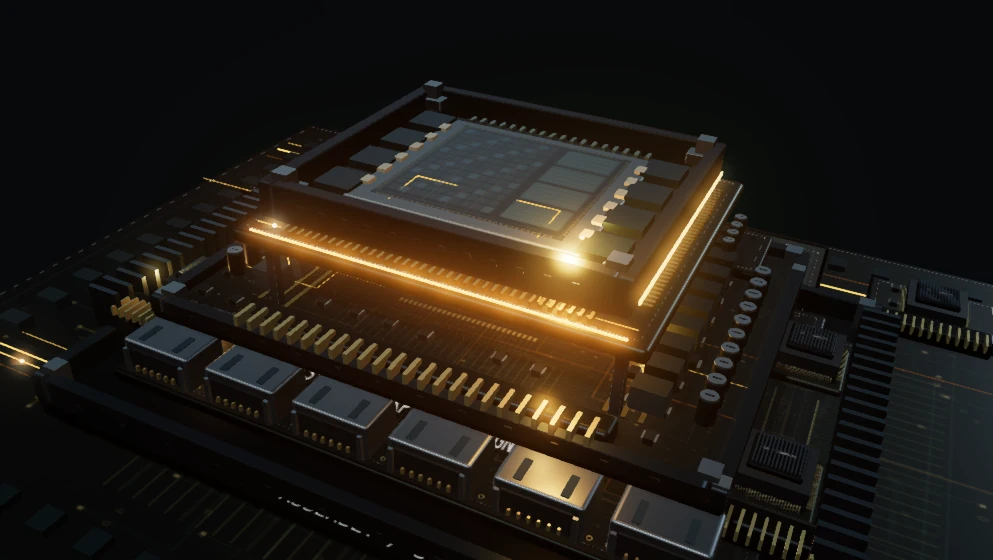
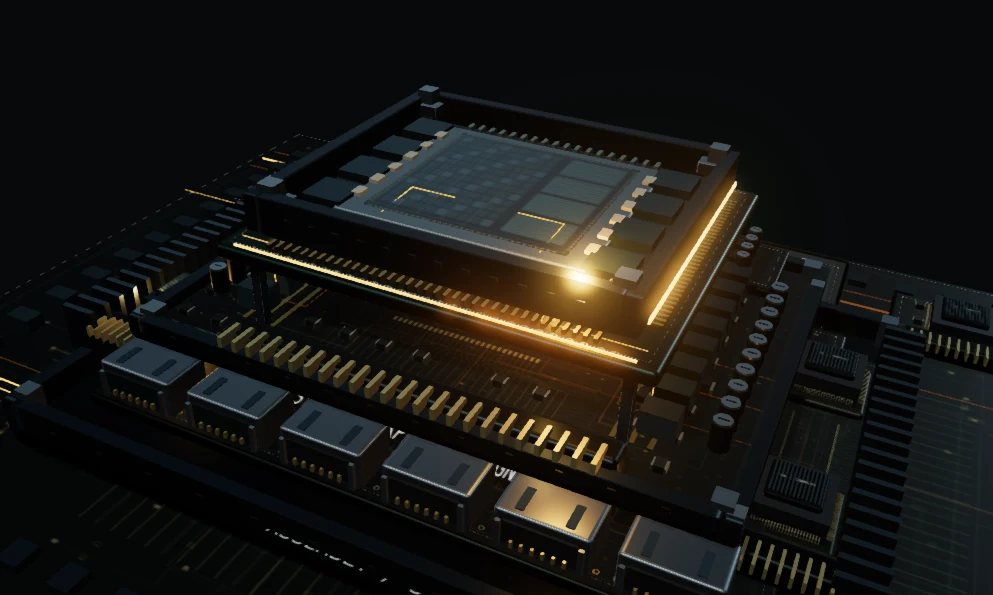
feat: polish contact globe and flagship project presentation

diff --git a/src/components/three/ContactGlobeScene.tsx b/src/components/three/ContactGlobeScene.tsx
@@ -1,0 +1,40 @@
+import {useEffect,useLayoutEffect,useMemo,useRef,type RefObject} from 'react';
+import {useFrame,useThree} from '@react-three/fiber';
+import {Color,BufferGeometry,Float32BufferAttribute,Group,InstancedMesh,MathUtils,Matrix4,MeshBasicMaterial,MeshStandardMaterial,PointLight,SphereGeometry,TubeGeometry,Vector2,Vector3,CatmullRomCurve3} from 'three';
+import {useResource} from './resources';
+import type {SceneProps} from './types';
+const R=1.72;
+const surface=(lat:number,lon:number,r=R)=>{const a=lat*Math.PI/180,b=lon*Math.PI/180;return new Vector3(r*Math.cos(a)*Math.sin(b),r*Math.sin(a),r*Math.cos(a)*Math.cos(b));};
+// Coarse conceptual coastlines; no downloaded map textures or political boundaries.
+const lands=[[[ -166,65],[-130,72],[-55,52],[-82,24],[-104,18],[-125,42]], [[-80,12],[-45,-5],[-36,-22],[-68,-55],[-78,-20]], [[-18,35],[35,32],[50,10],[30,-35],[12,-33],[-16,7]], [[-10,36],[-12,60],[40,72],[170,60],[140,30],[115,5],[77,7],[55,28]], [[112,-11],[154,-12],[151,-38],[115,-35]], [[-52,60],[-20,70],[-35,83],[-62,78]]];
+function inside(x:number,y:number,p:number[][]){let hit=false;for(let i=0,j=p.length-1;i<p.length;j=i++){const [a,b]=p[i],[c,d]=p[j];if((b>y)!==(d>y)&&x<(c-a)*(y-b)/(d-b)+a)hit=!hit;}return hit;}
+function route(from:[number,number],to:[number,number],height:number,sweep=false){const a=surface(...from,1),b=surface(...to,1),points=[];for(let i=0;i<=40;i++){const t=i/40,v=a.clone().lerp(b,t).normalize();if(sweep)v.applyAxisAngle(new Vector3(0,0,1),Math.sin(t*Math.PI)*.48);points.push(v.multiplyScalar(R+.025+Math.sin(t*Math.PI)*height));}return new CatmullRomCurve3(points);}
+const paths=[route([45.42,-75.7],[35,70],.48),route([45.42,-75.7],[-30,-50],.27),route([15,-120],[50,30],.73),route([-25,135],[30,-20],.4),route([55,145],[-20,-70],.6),route([-45,-100],[65,100],1.03,true)];
+function Arc({index,reducedMotion,pointer}:{index:number;reducedMotion:boolean;pointer:RefObject<Vector2>}){
+ const time=useRef(0),band=index%2;
+ const geometry=useResource(`contact-route-${index}`,()=>new TubeGeometry(paths[index],48,index===5?.012:.007,5,false));
+ const material=useResource(`contact-route-material-${band}`,()=>new MeshStandardMaterial({color:'#8e652e',emissive:'#ff9a25',emissiveIntensity:.85,metalness:.65,roughness:.36}));
+ useFrame((_,delta)=>{if(!reducedMotion)time.current+=Math.min(delta,.08);material.emissiveIntensity=reducedMotion?.85:.62+.3*Math.sin(time.current*.16+band*2)**2+(band===0?.14*Math.max(0,1-pointer.current.length()):0);});
+ return <mesh geometry={geometry} material={material} dispose={null}/>;
+}
+export default function ContactGlobeScene({tier,reducedMotion}:SceneProps){
+ const globe=useRef<Group>(null),nodes=useRef<InstancedMesh>(null),land=useRef<InstancedMesh>(null),pulses=useRef<InstancedMesh>(null),lights=useRef<(PointLight|null)[]>([]),ottawa=useRef<MeshStandardMaterial>(null),pointer=useRef(new Vector2()),clock=useRef(0),matrix=useMemo(()=>new Matrix4(),[]);
+ const {camera,size,gl,invalidate}=useThree();const count=tier==='low'?3:6;const pathIndex=(i:number)=>tier==='low'&&i===2?5:i;
+ const dots=useMemo(()=>{const list:Vector3[]=[];for(let lat=-54;lat<78;lat+=tier==='low'?6:4)for(let lon=-178;lon<180;lon+=tier==='low'?6:4)if(lands.some(p=>inside(lon,lat,p)))list.push(surface(lat,lon,R+.008));return list;},[tier]);
+ const dotGeometry=useResource('contact-land-dot',()=>new SphereGeometry(.024,5,4)),nodeGeometry=useResource('contact-node',()=>new SphereGeometry(.033,8,6)),pulseGeometry=useResource('contact-pulse',()=>new SphereGeometry(.035,8,6));
+ const landMaterial=useResource('contact-land-metal',()=>new MeshStandardMaterial({color:'#536367',metalness:.82,roughness:.46})),nodeMaterial=useResource('contact-node-material',()=>new MeshBasicMaterial({color:'#bc8135'})),pulseMaterial=useResource('contact-pulse-material',()=>new MeshBasicMaterial({color:new Color('#ffca72').multiplyScalar(3.2),toneMapped:false}));
+ const grid=useResource('contact-grid',()=>{const vertices:number[]=[];for(let lat=-60;lat<=60;lat+=30)for(let lon=-180;lon<180;lon+=5)vertices.push(...surface(lat,lon,R+.012).toArray(),...surface(lat,lon+5,R+.012).toArray());for(let lon=-180;lon<180;lon+=30)for(let lat=-90;lat<90;lat+=5)vertices.push(...surface(lat,lon,R+.012).toArray(),...surface(lat+5,lon,R+.012).toArray());const g=new BufferGeometry();g.setAttribute('position',new Float32BufferAttribute(vertices,3));return g;});
+ useLayoutEffect(()=>{dots.forEach((p,i)=>land.current?.setMatrixAt(i,matrix.makeTranslation(p.x,p.y,p.z)));if(land.current)land.current.instanceMatrix.needsUpdate=true;Array.from({length:count},(_,i)=>nodes.current?.setMatrixAt(i,matrix.makeTranslation(...paths[pathIndex(i)].getPoint(1).toArray())));if(nodes.current)nodes.current.instanceMatrix.needsUpdate=true;},[dots,count,matrix]);
+ useEffect(()=>{camera.position.set(0,.12,size.width<size.height?9.4:8.3);camera.lookAt(0,0,0);invalidate();const canvas=gl.domElement;const move=(e:PointerEvent)=>{if(reducedMotion||tier==='low'||e.pointerType!=='mouse')return;const b=canvas.getBoundingClientRect();pointer.current.set(MathUtils.clamp((e.clientX-b.left)/b.width*2-1,-1,1),MathUtils.clamp((e.clientY-b.top)/b.height*2-1,-1,1));};const leave=()=>pointer.current.set(0,0);canvas.addEventListener('pointermove',move,{passive:true});canvas.addEventListener('pointerleave',leave);return()=>{canvas.removeEventListener('pointermove',move);canvas.removeEventListener('pointerleave',leave);};},[camera,size.width,size.height,gl,invalidate,reducedMotion,tier]);
+ useFrame((_,delta)=>{const dt=Math.min(delta,.08);if(!reducedMotion)clock.current+=dt;const t=clock.current;if(globe.current){globe.current.rotation.y=MathUtils.damp(globe.current.rotation.y,.86+t*.014+(reducedMotion?0:pointer.current.x*.065),4,dt);globe.current.rotation.x=MathUtils.damp(globe.current.rotation.x,-.16+(reducedMotion?0:pointer.current.y*.055),4,dt);}for(let i=0;i<count;i++){const phase=reducedMotion?.38:(t*(.075+i*.009)+i*.163)%1,activation=reducedMotion?.7:.6+.4*Math.sin(t*.23+i*1.7)**2;for(let j=0;j<4;j++){const p=paths[pathIndex(i)].getPoint((phase-j*.014+1)%1),scale=(1-j*.2)*activation;matrix.makeScale(scale,scale,scale).setPosition(p);pulses.current?.setMatrixAt(i*4+j,matrix);}if(lights.current[i]){lights.current[i]!.position.copy(paths[pathIndex(i)].getPoint(phase));lights.current[i]!.intensity=.8*activation;}}if(pulses.current)pulses.current.instanceMatrix.needsUpdate=true;if(ottawa.current)ottawa.current.emissiveIntensity=reducedMotion?1.1:1.1+Math.sin(t*1.8)*.22+Math.max(0,1-pointer.current.length())*.2;const sample=window.__PORTFOLIO_PROFILE__?.scenes.contact;if(sample)Object.assign(sample,{activePaths:count,landNodes:dots.length,clock:t,rotation:globe.current?.rotation.toArray()});});
+ return <group><group ref={globe} rotation={[-.16,.86,0]}>
+  <mesh><sphereGeometry args={[R,tier==='low'?40:64,tier==='low'?24:40]}/><meshStandardMaterial color='#111a1e' metalness={.72} roughness={.43}/></mesh>
+  <instancedMesh ref={land} args={[dotGeometry,landMaterial,dots.length]} dispose={null}/>
+  <lineSegments geometry={grid} dispose={null}><lineBasicMaterial color='#34484e' transparent opacity={.24}/></lineSegments>
+  {Array.from({length:count},(_,i)=><Arc key={i} reducedMotion={reducedMotion} pointer={pointer} index={tier==='low'&&i===2?5:i}/>)}
+  <instancedMesh ref={nodes} args={[nodeGeometry,nodeMaterial,count]} dispose={null}/>
+  <instancedMesh ref={pulses} args={[pulseGeometry,pulseMaterial,count*4]} dispose={null}/>
+  {tier!=='low'&&[0,1].map(i=><pointLight key={i} ref={l=>{lights.current[i]=l;}} color='#ffae49' intensity={.4} distance={2} decay={2}/>)}
+  <mesh position={surface(45.42,-75.7,R+.035)}><sphereGeometry args={[.057,12,8]}/><meshStandardMaterial ref={ottawa} color='#ffbd59' emissive='#ffad38' emissiveIntensity={1.1}/></mesh>
+ </group><directionalLight position={[-3,1,4]} color='#ffbd6a' intensity={1.05}/></group>;
+}

diff --git a/src/components/three/ModuleHardware.tsx b/src/components/three/ModuleHardware.tsx
@@ -3,7 +3,7 @@ import {RoundedBox} from '@react-three/drei';
 import {useFrame} from '@react-three/fiber';
 import {CylinderGeometry,InstancedMesh,Matrix4,MeshStandardMaterial} from 'three';
 import {Plate,Label,AMBER,READ} from './Hardware';
-import {Parts,Processor,Connector} from './Circuitry';
+import {Parts,Processor,Connector,CircuitBoard} from './Circuitry';
 import {useMetal,useResource,canvasTexture} from './resources';
 import {useDetailTier} from './quality';
 import SignalTrace from './SignalTrace';
@@ -79,10 +79,13 @@ export function AcquisitionTile({reducedMotion,active=true,scale=1}:{reducedMoti
   <Parts parts={[-1,1].map(s=>({position:[.5+s*.7,.38,-.51] as [number,number,number],size:[.1,.65,.12] as [number,number,number]}))} color='#788b94' metalness={.9} roughness={.28}/>
   <Parts parts={[-1,1].map(s=>({position:[.5+s*.7,.12,-.48] as [number,number,number],size:[.28,.055,.55] as [number,number,number]}))} color='#667980'/>
   <group position={[-.74,.13,.72]}><Plate width={1.22} depth={.54} height={.08} color='#2e413e'/><Parts parts={[-.4,0,.4].map(x=>({position:[x,.09,0] as [number,number,number],size:[.23,.1,.24] as [number,number,number]}))} color='#14242a' metalness={.12}/><Label text='ANALOG FRONT END' width={1.05} position={[0,.15,.18]}/></group>
-  <group position={[-1.3,.15,.2]}><Plate width={.75} depth={.7} height={.15} color='#405253'/>{[-.2,0,.2].map(x=><mesh key={x} position={[x,.15,.08]}><cylinderGeometry args={[.068,.068,.08,16]}/><meshStandardMaterial color='#c6c2ac' metalness={.9} roughness={.25}/></mesh>)}<Label text='INPUT' position={[0,.245,-.16]} width={.55}/></group>
+  <group position={[-1.3,.15,.2]}><Plate width={.75} depth={.7} height={.15} color='#405253'/>{[-.2,0,.2].map(x=><mesh key={x} position={[x,.15,.08]}><cylinderGeometry args={[.068,.068,.08,16]}/><meshStandardMaterial color='#c6c2ac' metalness={.9} roughness={.25}/></mesh>)}<Label text='MYOWARE / INPUT' position={[0,.245,-.16]} width={.67}/></group>
+  <group position={[-.55,.08,-.28]}><CircuitBoard width={.85} depth={.83} seed={121}/><Connector width={.55} count={6}/></group>
   <group position={[-.55,.18,-.28]}><Processor width={.47} active={active}/><Label text='MCU / ADC' position={[0,.29,0]} width={.44}/></group>
+  <group position={[.37,.08,.48]}><Plate width={1.06} depth={.69} height={.13} color='#26383e' rim/><Parts parts={[-1,1].map(s=>({position:[s*.43,.12,0] as [number,number,number],size:[.1,.08,.45] as [number,number,number]}))} color='#697e84'/></group>
   <group position={[.37,.2,.48]}><Processor width={.65} active={active}/><Label text='PYTHON' position={[0,.28,0]} width={.5}/></group>
   <group position={[-.67,.17,-.87]}><Connector width={.7} count={6}/><Label text='SERIAL' position={[0,.14,.17]} width={.57} color={READ}/></group>
+  <Label text='ADC → SERIAL → PYTHON' position={[0,.12,1.08]} width={1.8} color={READ}/>
   <SignalTrace color={READ} active={active} duty={.55} period={8} reducedMotion={reducedMotion} strength={.55} points={[[-.55,.13,-.28],[-.55,.13,-.82],[-.08,.13,-.82],[-.08,.13,.48],[.37,.13,.48]]}/>
   <group position={[.5,.83,-.48]} rotation={[-.24,0,0]}>
    <RoundedBox castShadow args={[2.05,1.13,.16]} radius={.055} smoothness={2}><meshStandardMaterial color='#77878c' metalness={.91} roughness={.22}/></RoundedBox>
@@ -91,6 +94,7 @@ export function AcquisitionTile({reducedMotion,active=true,scale=1}:{reducedMoti
    <Parts parts={Array.from({length:5},(_,i)=>({position:[0,(i-2)*.18,.091] as [number,number,number],size:[1.77,.003,.003] as [number,number,number]}))} color='#203e43' metalness={0}/>
    <Waveform position={[0,.12,.096]} width={1.75} amplitude={.15} noisy color={READ} active={active} reducedMotion={reducedMotion}/>
    <Waveform position={[0,-.19,.096]} width={1.75} amplitude={.11} color={AMBER} active={active} reducedMotion={reducedMotion}/>
+   <Parts parts={[-.65,-.5,-.35].map(x=>({position:[x,-.49,.098] as [number,number,number],size:[.045,.02,.015] as [number,number,number]}))} color={AMBER} emissive/>
    <Label text='SYNTHETIC / SERIAL' position={[0,.37,.097]} rotation={[0,0,0]} width={1.4} color={READ}/>
   </group>
   <SignalTrace active={active} spill={.65} reducedMotion={reducedMotion} points={[[-1.3,.07,.25],[-.95,.07,.25],[-.95,.07,-.28],[-.55,.1,-.28],[-.1,.1,-.28],[-.1,.1,.48],[.37,.1,.48],[1.45,.1,.48],[1.45,.3,-.48],[.5,.4,-.48]]}/>
@@ -117,7 +121,10 @@ export function OpticalTile({reducedMotion,active=true,scale=1}:{reducedMotion:b
    <mesh position={[.057,0,0]} rotation={[0,Math.PI/2,0]}><planeGeometry args={[1.04,.68]}/><meshStandardMaterial ref={screen} color='#c1a878' emissive='#ffd89e' emissiveIntensity={.045} roughness={.26} metalness={.08}/></mesh>
    <Label text='SCREEN / MORSE TX' position={[.062,-.35,0]} rotation={[0,Math.PI/2,0]} width={1.03}/>
   </group>
+  <group position={[-1.22,.17,.36]}><CircuitBoard width={.69} depth={.34} seed={127}/><Processor width={.23}/></group>
   <Label text='TX / SCREEN' position={[-1.22,.158,.55]} width={.77}/>
+  <group position={[1.08,.16,.49]}><CircuitBoard width={.94} depth={.38} seed={129}/><Connector width={.62} count={6}/></group>
+  <Parts parts={Array.from({length:6},(_,i)=>({position:[1.15+(i-2.5)*.1,.78,-.25] as [number,number,number],size:[.035,.07,.36] as [number,number,number]}))} color='#7d9199' metalness={.86} roughness={.32}/>
   <group position={[1.08,.36,0]}><Plate width={.9} depth={1.05} height={.58} color='#42535b'/><group position={[-.56,.07,0]} rotation={[0,0,Math.PI/2]}>
    {[0,.08,.16].map((y,i)=><mesh key={i} position={[0,y,0]}><cylinderGeometry args={[.235-i*.03,.235-i*.03,.07,24]}/><meshStandardMaterial color={i===1?'#8c9ba3':'#17272d'} metalness={.92} roughness={.19}/></mesh>)}
    <mesh position={[0,.21,0]}><cylinderGeometry args={[.16,.16,.012,24]}/><meshPhysicalMaterial color='#426f84' metalness={.55} roughness={.08} clearcoat={1}/></mesh>

diff --git a/src/components/three/ChipLayers.tsx b/src/components/three/ChipLayers.tsx
@@ -11,7 +11,7 @@ import type {SceneProps} from './types';
 // Three serviceable assemblies: I/O backplane, compute board, semiconductor socket.
 export default function ChipLayers({progress,active,reducedMotion,tier,pointer}:SceneProps&{progress:React.RefObject<number>;active:number;pointer?:React.RefObject<{x:number;y:number}>}) {
  const layers=useRef<(Group|null)[]>([]),clock=useRef(0),core=useRef<PointLight>(null);
- useFrame((_,delta)=>{const dt=Math.min(delta,.05);if(!reducedMotion)clock.current+=dt;const split=reducedMotion?0:MathUtils.smoothstep(progress.current,.15,.92);layers.current.forEach((g,i)=>{if(g)g.position.y=MathUtils.damp(g.position.y,[-.63,-.13,.55][i]+i*split*.23+(reducedMotion?0:Math.sin(clock.current*.2+i)*.004),4,dt);});if(core.current){core.current.intensity=4.8+(reducedMotion?0:Math.sin(clock.current*.91)*.5+Math.max(0,1-Math.hypot(pointer?.current.x||0,pointer?.current.y||0))*.9);core.current.position.x=reducedMotion?.8:.8+Math.sin(clock.current*.23)*.28;}});
+ useFrame((_,delta)=>{const dt=Math.min(delta,.05);if(!reducedMotion)clock.current+=dt;const split=reducedMotion?0:MathUtils.smoothstep(progress.current,.15,.92);layers.current.forEach((g,i)=>{if(g)g.position.y=MathUtils.damp(g.position.y,[-.63,-.13,.55][i]+i*split*.23+(reducedMotion?0:Math.sin(clock.current*.2+i)*.004),4,dt);});if(core.current){core.current.intensity=3.5+(reducedMotion?0:Math.sin(clock.current*.91)*.35+Math.max(0,1-Math.hypot(pointer?.current.x||0,pointer?.current.y||0))*.6);core.current.position.x=reducedMotion?.8:.8+Math.sin(clock.current*.23)*.28;}});
  return <group>
   <group position={[0,-1.05,-.3]}><SystemBed width={9.4} depth={7.2} tier={tier} reducedMotion={reducedMotion}/></group>
   <group position={[0,-.83,0]}><Plate width={5.6} depth={4.15} height={.2} color='#1c2429' rim bolts/><Frame width={5.6} depth={4.15} height={.3}/></group>
@@ -38,12 +38,12 @@ export default function ChipLayers({progress,active,reducedMotion,tier,pointer}:
   <group ref={g=>{layers.current[2]=g;}} position={[0,.55,-.12]}>
    <ComputePackage tier={tier}/>
    {[-1,1].map(s=><SignalTrace key={s} reducedMotion={reducedMotion} spill={s===1?1.1:0} strength={1.0} offset={(s+1)*.2} points={[[s*1.4,.07,1.14],[s*.75,.07,1.14],[s*.75,.14,.75],[s*.56,.28,.75],[s*.56,.294,.35],[s*.23,.294,.35]]}/>)}
-   <mesh position={[0,.065,1.26]}><boxGeometry args={[2.75,.014,.018]}/><meshStandardMaterial color={AMBER} emissive='#ff9b29' emissiveIntensity={3}/></mesh>
+   <mesh position={[0,.065,1.26]}><boxGeometry args={[2.75,.014,.018]}/><meshStandardMaterial color={AMBER} emissive='#ff9b29' emissiveIntensity={2.1}/></mesh>
   </group>
   <Parts parts={[-1,1].flatMap(s=>Array.from({length:tier==='low'?9:20},(_,i)=>({position:[s*2.77,-.39,(i-(tier==='low'?8:19)/2)*.14] as [number,number,number],size:[.28,.39,.045] as [number,number,number]})))} color='#687981' metalness={.95} roughness={.26}/>
   {[-1,1].map(s=><SignalTrace key={`vertical-${s}`} reducedMotion={reducedMotion} duty={.88} period={19} spill={s===1?1.2:0} strength={1.15} offset={.1+(s+1)*.19} points={[[s*4.65,-.97,1.65],[s*3.2,-.97,1.65],[s*3.2,-.97,.74],[s*2.15,-.97,.74],[s*2.15,-.63,.74],[s*1.94,-.63,.74],[s*1.94,-.13,.74],[s*1.4,-.13,.74],[s*1.4,.47,.74],[s*.7,.47,.74]]}/>)}
   {[-1,1].map(s=><SignalTrace key={`rear-${s}`} reducedMotion={reducedMotion} duty={.23} period={21} offset={(s+1)*.31} strength={.8} speed={.08} points={[[s*.25,.286,-.47],[s*.86,.286,-.47],[s*.86,.07,-1.2],[s*1.5,.07,-1.2],[s*1.5,-.9,-1.7],[s*4.6,-.9,-1.7]]}/>)}
-  <pointLight ref={core} position={[.8,1.15,.74]} color='#ffb04d' intensity={4.8} distance={3.2} decay={2}/>
+  <pointLight ref={core} position={[.8,1.15,.74]} color='#ffb04d' intensity={3.5} distance={3.2} decay={2}/>
   <pointLight position={[-2.35,-.35,.76]} color='#ffc06b' intensity={1.5} distance={2.2} decay={2}/>
   <Label text={`ASSEMBLY / ${active+1}`} position={[0,-.71,2.05]} width={1.4} color='#9faaa9'/>
  </group>;

diff --git a/src/data/projects.ts b/src/data/projects.ts
@@ -82,7 +82,7 @@ export const featuredProjects=['fifo','fpga-arithmetic','lumalink','mini-lysimet
 
 export interface AdditionalProject {title:string;status:string;tags:string;description:string;source?:string;}
 export const additionalProjects:AdditionalProject[] = [
-  {title:'JPacman Software Engineering Team Project',status:'In progress',tags:'Java · Git · Jira · Confluence',description:'Leading a three-person team through a planned six two-week sprint cycle. Coordinating requirements, work allocation, implementation, testing, and documentation for movement, collisions, scoring, and ghost behavior.'},
+  {title:'JPacman Software Engineering Team Project',status:'In progress',tags:'Java · Git · Jira · Confluence',description:'Working in a three-person Agile team through a planned six two-week sprint cycle. Contributing to requirements, work allocation, implementation, testing, and documentation for movement, collisions, scoring, and ghost behavior.'},
   {title:'BCD to Seven-Segment Decoder',source:github+'BCD-to-7Segment-Decoder',status:'FPGA implementation',tags:'Logisim · Verilog · Vivado · Blackboard FPGA',description:'Derived a BCD truth table and minimized Boolean logic with Karnaugh maps. Simulated in Logisim and implemented a Verilog data-flow design on the Blackboard FPGA for digits 0–9. Separate from the ZedBoard arithmetic project.'},
   {title:'Wireless IoT Robotic Car & Hazard-Disposal Arm',source:github+'Wireless_IoT-Controlled_Robotic_Car',status:'Team hardware project',tags:'Arduino Uno · ESP8266 · Blynk · C++',description:'Led a three-person Wi-Fi-controlled vehicle and manipulator project for simulated object pickup. Integrated an L298N driver, servos, custom CAD/wooden mounts, and a separate potentiometer-based arm controller.'},
   {title:'CU-MSA Volunteer Application Automation',status:'Engineering automation',tags:'Google Apps Script · Forms · Sheets · Gmail',description:'Routed applicant data to committee-specific spreadsheets while preserving role and committee preferences. Automated applicant email templates for coordinator, committee-member, and general-member paths.'},

diff --git a/src/components/three/ProjectFloorplan.tsx b/src/components/three/ProjectFloorplan.tsx
@@ -154,7 +154,7 @@ export default function ProjectFloorplan({reducedMotion,tier}:SceneProps) {
         <group position={[0,.07,0]}><CircuitBoard width={region.dockWidth-.12} depth={region.dockDepth-.12} tier={tier} seed={i+70}/></group>
         <group position={[0,.17,-region.dockDepth/2+.13]}><Connector width={region.dockWidth*.5} count={10}/></group>
         <Line points={[[region.dockWidth*.38,.19,-region.dockDepth*.33],[region.dockWidth*.38,labelY-.07,-region.dockDepth*.33]]} color={selected?'#9e763f':'#576b73'} lineWidth={.55} raycast={()=>{}}/>
-        <Html portal={labels} position={[region.dockWidth*.38,labelY,-region.dockDepth*.33]} center style={{pointerEvents:'none',opacity:opening&&region.id!==opening ? .3 : 1}}><span aria-hidden="true" style={{display:'block',whiteSpace:'nowrap',padding:'4px 8px',border:`1px solid ${selected?'#c69243':'#6a604c'}`,borderRadius:'2px',background:'#0b1013e0',color:selected?'#ffc36a':'#c0c8c9',font:'10px monospace',letterSpacing:'.04em',boxShadow:selected?'0 0 22px #ffac291c':'none'}}>{region.label}</span></Html>
+        <Html portal={labels} position={[region.dockWidth*.38,labelY,-region.dockDepth*.33]} center style={{pointerEvents:'none',opacity:opening&&region.id!==opening ? .3 : 1}}><span aria-hidden="true" style={{display:'block',whiteSpace:'nowrap',padding:'5px 9px 5px 15px',border:`1px solid ${selected?'#c69243':'#6a604c'}`,borderRadius:'3px',background:'#0b1013e0',color:selected?'#ffc36a':'#c0c8c9',font:'500 9px monospace',letterSpacing:'.04em',boxShadow:'0 4px 12px #0008'}}><span style={{position:'absolute',left:'6px',top:'9px',width:'3px',height:'3px',borderRadius:'50%',background:selected?'#e4ac58':'#829398'}}/>{region.label}</span></Html>
         <ProjectMount dock={region} onMeasure={onMeasure}>
           {region.id==='fifo'&&<MemoryBank occupied={selected?[true,true,true,false,false,false,false,false]:[true,false,false,false,false,false,false,false]}/>}
           {region.id==='fpga-arithmetic'&&<ArithmeticTile a={21} b={8} result={29} active={selected} reducedMotion={reducedMotion}/>}

diff --git a/src/components/three/CanvasShell.tsx b/src/components/three/CanvasShell.tsx
@@ -9,6 +9,7 @@ import type { GraphicsTier, SceneKind, SceneProps } from './types';
 const EnergyBloom=lazy(()=>import('./EnergyBloom'));
 
 const sceneModules: Partial<Record<SceneKind, ReturnType<typeof lazy<React.ComponentType<SceneProps>>>>> = {
+  contact: lazy(() => import('./ContactGlobeScene')),
   hero: lazy(() => import('./HeroScene')),
   verification: lazy(() => import('./ExperienceScene')),
   floorplan: lazy(() => import('./ProjectFloorplan')),
@@ -91,8 +92,8 @@ export default function CanvasShell({ scene, host, onReady, onFailure, onContext
   }, [host]);
   const Scene = sceneModules[scene];
   const detailTier=stage>=6?'low':tier;
-  const dpr=tier==='low'?1:stage>=2?1:stage>=1?1.1:tier==='high'?1.4:1.25;
-  const bloom=tier!=='low'&&stage<3,shadows=tier!=='low'&&stage<5;
+  const dpr=scene==='contact'?(tier==='low'||stage>=2?1:stage>=1?1.1:1.25):tier==='low'?1:stage>=2?1:stage>=1?1.1:tier==='high'?1.4:1.25;
+  const bloom=tier!=='low'&&stage<3,shadows=scene!=='contact'&&tier!=='low'&&stage<5;
   useEffect(()=>{
     if(host.current)host.current.dataset.renderLoop=visible?(reducedMotion?'demand':'always'):'paused';
   },[host,visible,reducedMotion]);

diff --git a/src/components/three/types.ts b/src/components/three/types.ts
@@ -1,3 +1,3 @@
-export type SceneKind = 'hero' | 'verification' | 'floorplan' | 'fifo' | 'fpga' | 'emg' | 'lumalink' | 'cubex' | 'daq';
+export type SceneKind = 'contact' | 'hero' | 'verification' | 'floorplan' | 'fifo' | 'fpga' | 'emg' | 'lumalink' | 'cubex' | 'daq';
 export type GraphicsTier = 'high' | 'medium' | 'low';
 export interface SceneProps { reducedMotion: boolean; tier: GraphicsTier; }

diff --git a/docs/visual-polish/README.md b/docs/visual-polish/README.md
@@ -1,0 +1,25 @@
+# Focused visual polish
+
+Contact now has a dedicated lazy-loaded globe scene: graphite sphere, restrained metallic land dots and grid, a real Ottawa marker, layered amber paths, traveling heads/trails, local light spill, slow drift and damped desktop pointer tilt. Unlabelled routes are explicitly described as conceptual. Two shared route materials cycle independently. No downloaded globe assets or map textures.
+
+The HTML form stays below the hero. Its CTA scrolls and focuses Name; submission, validation, status announcements and keyboard access remain intact. Desktop uses a split layout; mobile stacks text, a 340px globe, then the form. Mobile uses three paths and no bloom or pulse lights. Reduced motion fixes orientation and pulses, disables mouse reaction, and renders on demand. Offscreen rendering pauses through the existing render budget.
+
+Budget: six desktop paths, instanced land/nodes/pulses, two local lights, no shadow maps or depth of field, adaptive bloom, desktop DPR ceiling 1.25 and mobile DPR 1. Observed software-renderer samples: desktop 27 calls including bloom passes / 41,355 triangles; mobile 9 calls / 18,388 triangles. Adaptive quality remains enabled. Hardware GPU frame rate was not measured. Static Contact, EMG, LumaLink, Home and platform posters were exported from the real scenes.
+
+LumaLink adds transmitter control electronics, camera board interface and receiver heat-sink detail while retaining the screen-flash → optical pulse → camera response → decode sequence. EMG adds an acquisition PCB, sensor input identification, processing chassis and waveform-station status detail; signals remain synthetic. Shared model details appear on the project platform as well as case pages.
+
+Title-length attributes preserve short-title size and reduce long titles: desktop EMG measured two lines, CubeX three. Labels have quieter typography, an amber anchor node and their existing model leader. Hero core light and the strongest emissive strip are softened. Engineering involvement now precedes leadership/community on About, preserving its content. Projects says “where available”; EMG says “View repository”; JPacman uses shared-team wording.
+
+Validation: production build, typecheck (zero errors/warnings, one existing hint), changed-file lint, all nine existing tests. Focused Contact desktop/mobile/reduced-motion checks passed; energy clock advances, offscreen clock stops, reduced motion is demand/clock zero, and one mocked form request succeeds without sending a message. Home and three case heroes were inspected. One FIFO client-navigation/retained-handoff sanity check passed without a document reload or page errors. Transition architecture, SEO staging directives and resume are unchanged. No Lighthouse or exhaustive viewport matrix.
+
+Captures:
+- [Contact desktop](contact-desktop.jpg)
+- [Globe detail](contact-globe.jpg)
+- [Contact mobile](contact-mobile.jpg)
+- [Contact reduced motion](contact-reduced.jpg)
+- [EMG hero](emg-hero.jpg)
+- [LumaLink hero](lumalink-hero.jpg)
+- [CubeX long title](cubex-hero.jpg)
+- [Home hero](home-hero.jpg)
+
+Remaining visual difference: the lightweight dotted continents and clean paths are more schematic than the reference’s dense coastlines and volumetric energy. Mobile deliberately has less glow and fewer paths. Smoothness on physical mobile hardware remains unverified; the available browser uses SwiftShader.
